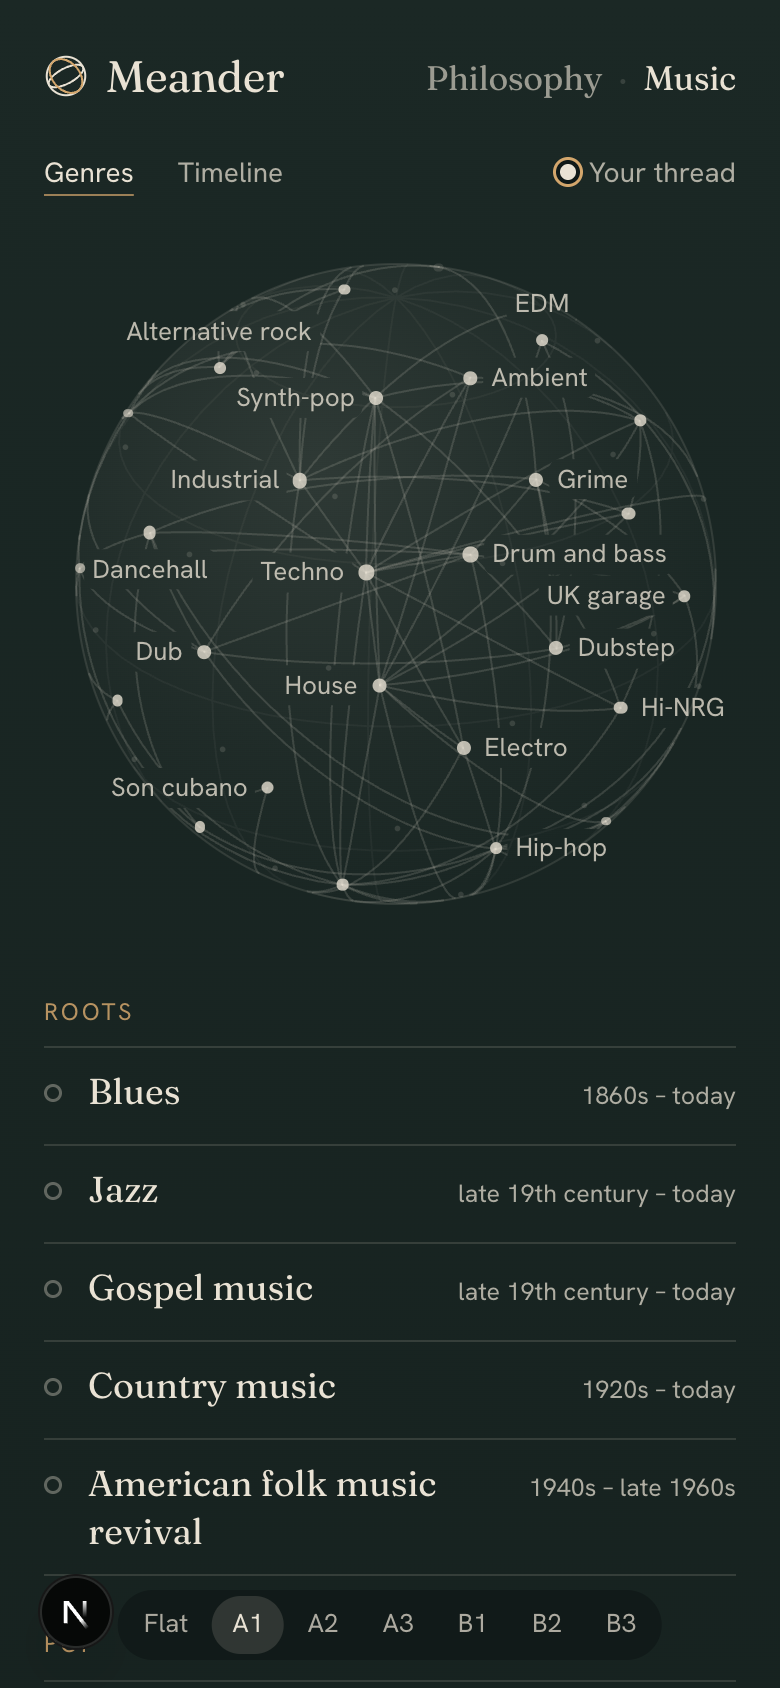
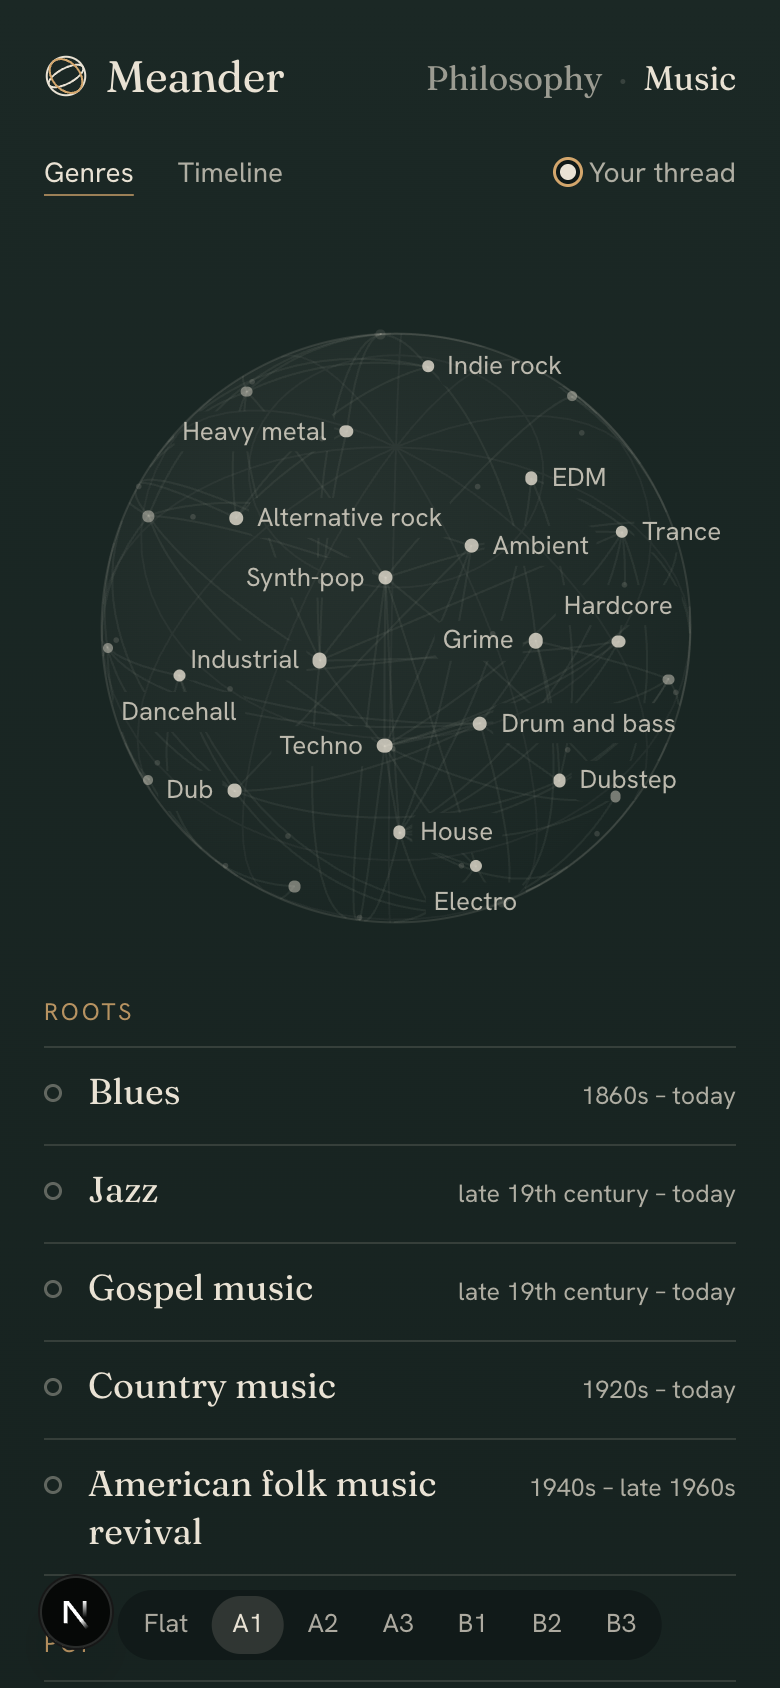
11 Meander: A1 and A3 after critic round 1 (family lighting, quieter list and threads, front-only family names, densest first view)

Changed region(s): [[0.0923, 0.154, 0.9231, 0.5545], [0.1231, 0.2464, 0.1538, 0.2773]]

diff --git a/apps/11-meander/src/components/spin-globe.tsx b/apps/11-meander/src/components/spin-globe.tsx
@@ -15,16 +15,21 @@ import { GAMMA, RIM, project, vec, type Vec3 } from "@/lib/globe";
 import { arcPath, centroid, clampPitch, facingRot, frontOf, graticule, lerpRot, ortho, placeSpinLabels, type Box, type Rot } from "@/lib/spin";
 
 export type SpinVariant = "a1" | "a2" | "a3" | "b1" | "b2" | "b3";
-/** Families for music; Western and Eastern for philosophy. */
+/** Families for music; the timeline's eras for philosophy (critic r1: Western/Eastern was two rows, not an overview). */
 export function groupsOf(field: Field) {
-  return field.families.length
-    ? field.families.map((f) => ({ id: f.id, name: f.name, schools: field.schools.filter((s) => s.family === f.id) }))
-    : [
-      { id: "west", name: "Western", schools: field.schools.filter((s) => s.tradition !== "eastern") },
-      { id: "east", name: "Eastern", schools: field.schools.filter((s) => s.tradition === "eastern") },
-    ];
+  if (field.families.length) return field.families.map((f) => ({ id: f.id, name: f.name, schools: field.schools.filter((s) => s.family === f.id) }));
+  const rows = timelineRows(field.schools, undefined, field.spans, field.eras);
+  return field.eras.map((e, i) => ({ id: `era-${i}`, name: e.name, schools: rows.filter((r) => r.era === i).map((r) => r.item) }));
+}
+/** The densest side of the sphere: the point with the most others within about 63°, then the middle of that crowd. */
+function densest(vs: Vec3[]): Vec3 {
+  const d = (a: Vec3, b: Vec3) => a[0] * b[0] + a[1] * b[1] + a[2] * b[2];
+  let best = vs[0], n = -1;
+  for (const v of vs) { const k = vs.filter((w) => d(v, w) > 0.45).length; if (k > n) { n = k; best = v; } }
+  return centroid(vs.filter((w) => d(best, w) > 0.45));
 }
 import { stateLabel, type SchoolState } from "@/lib/progress";
+import { timelineRows } from "@/lib/timeline";
 import type { GlobeMode } from "@/lib/globe-proto";
 
 type Props = {
@@ -58,11 +63,13 @@ export function SpinGlobe({ field, mode, focus, states, onOpen, C: C0, R: R0, W,
   const fam = mode[0] as "a" | "b";
   // b2: a close-up globe rising from the bottom (back to normal size while a card is open, so it clears the card)
   const big = mode === "b2" && !focus;
-  const R = big ? R0 * 1.42 : R0;
-  const C: [number, number] = big ? [C0[0], C0[1] + R0 * 0.38] : C0;
+  // A (critic r1): a little smaller and lower on first open, so the top clears the menu
+  const calm = fam === "a" && !focus;
+  const R = big ? R0 * 1.42 : calm ? R0 * 0.92 : R0;
+  const C: [number, number] = big ? [C0[0], C0[1] + R0 * 0.38] : calm ? [C0[0], C0[1] + 22] : C0;
   const V = useMemo(() => Object.fromEntries(field.schools.map((s) => [s.id, vec(field.positions[s.id])])) as Record<string, Vec3>, [field]);
   const start = useMemo(() => {
-    const r = facingRot(focus ? V[focus] : centroid(Object.values(V)));
+    const r = facingRot(focus ? V[focus] : densest(Object.values(V)));
     return { yaw: r.yaw, pitch: clampPitch(r.pitch - 0.12) };
   }, [field]); // eslint-disable-line react-hooks/exhaustive-deps -- where it starts, per field
   const [rot, setRot] = useState<Rot>(start);
@@ -143,13 +150,16 @@ export function SpinGlobe({ field, mode, focus, states, onOpen, C: C0, R: R0, W,
   const near = useMemo(() => new Map(focus ? field.neighbours(focus).map((n) => [n.school.id, n]) : []), [field, focus]);
   const [hovered, setHovered] = useState<string | null>(null);
   const hoverId = focus ? null : hovered;
+  // a3: a clicked family name lights its members (and turns the globe to them)
+  const [famLit, setFamLit] = useState<{ id: string; ids: Set<string> } | null>(null);
+  const familyLit = focus ? null : litIds ?? famLit?.ids ?? null;
   const lit = useMemo(() => {
-    if (litIds) return litIds;
+    if (familyLit) return familyLit;
     if (!hoverId) return null;
     const ids = new Set([hoverId]);
     for (const l of field.links) if (l.from === hoverId) ids.add(l.to); else if (l.to === hoverId) ids.add(l.from);
     return ids;
-  }, [hoverId, field.links, litIds]);
+  }, [hoverId, field.links, familyLit]);
 
   const P = Object.fromEntries(field.schools.map((s) => [s.id, ortho(V[s.id], rot, C, R)]));
   const front = field.schools.filter((s) => s.id !== focus && P[s.id].z > 0);
@@ -185,6 +195,8 @@ export function SpinGlobe({ field, mode, focus, states, onOpen, C: C0, R: R0, W,
     .sort((a, b) => (near.has(a.id) ? 0 : 1) - (near.has(b.id) ? 0 : 1) || P[b.id].z - P[a.id].z)
     .map((s) => ({ id: s.id, x: P[s.id].x, y: P[s.id].y, r: rOf(s.id), ...sizeOf(s.id), must: near.has(s.id) }));
   const title: Box[] = focus ? [{ x: C[0] - 200, y: C[1] - 30, w: 400, h: 120 }] : [];
+  // the title's text only (the dot sits at C, the name and date line under it), so threads run up to it unbroken
+  const titleKo = focus ? { x: C[0] - 175, y: C[1] - 26, w: 350, h: 82 } : null;
   const placed = placeSpinLabels(wanted, [...fixed, ...title], C, W, H);
 
   // A, focus: neighbours round the back, pinned to the rim in their direction, so the card's neighbours are all on screen.
@@ -200,7 +212,7 @@ export function SpinGlobe({ field, mode, focus, states, onOpen, C: C0, R: R0, W,
 
   const paths = field.links.map((l) => {
     const isF = l.from === focus || l.to === focus;
-    const cls = ["th", isF && "focus", isF && l.type === "against" && "against", isF && l.type === "built-then-against" && "mixed", !!focus && !isF && "rest", lit && lit.has(l.from) && lit.has(l.to) && (hoverId === l.from || hoverId === l.to || !!litIds) && "lit"]
+    const cls = ["th", isF && "focus", isF && l.type === "against" && "against", isF && l.type === "built-then-against" && "mixed", !!focus && !isF && "rest", lit && lit.has(l.from) && lit.has(l.to) && (hoverId === l.from || hoverId === l.to || !!familyLit) && "lit"]
       .filter(Boolean).join(" ");
     return { key: `${l.from}-${l.to}`, cls, d: arcPath(V[l.from], V[l.to], rot, C, R) };
   }).filter((p) => p.d && (!focus || !p.cls.includes("rest") || fam === "a"));
@@ -213,16 +225,37 @@ export function SpinGlobe({ field, mode, focus, states, onOpen, C: C0, R: R0, W,
     const f = frontOf(rot);
     return { MC, r, ring: r * Math.min(RIM, Math.pow(0.5, GAMMA)), dots: field.schools.map((s) => ({ id: s.id, ...project(f, V[s.id], MC, r) })) };
   })() : null;
-  // a3: family names over their regions, faint when round the back.
-  const regions = mode === "a3" && !focus ? groupsOf(field).filter((g) => g.schools.length).map((g) => {
-    const p = ortho(centroid(g.schools.map((s) => V[s.id])), rot, C, R * 0.86);
-    return { id: g.id, name: g.name, ...p };
-  }) : [];
+  // a3 (critic r1): a family's name sits at the middle of its members on the front, only when two or more are there,
+  // and gives way to any genre label or dot it would touch; never for the back half.
+  const regions: { id: string; name: string; x: number; y: number; ids: Set<string>; vs: Vec3[] }[] = [];
+  if (mode === "a3" && !focus) {
+    const taken = Object.values(placed).map((p) => p.rect);
+    const groups = groupsOf(field)
+      .filter((g) => !famLit || g.id === famLit.id)
+      .map((g) => ({ g, on: g.schools.filter((s) => s.id !== focus && P[s.id].z > 0.2) }))
+      .filter((x) => x.on.length >= 2)
+      .sort((a, b) => b.on.length - a.on.length)
+      .slice(0, compact ? 3 : 8);
+    for (const { g, on } of groups) {
+      const cx = on.reduce((t, s) => t + P[s.id].x, 0) / on.length, cy = on.reduce((t, s) => t + P[s.id].y, 0) / on.length;
+      const w = g.name.length * (compact ? 7.5 : 9.6) + 8, h = compact ? 12 : 16;
+      const ids = new Set(g.schools.map((s) => s.id));
+      // the middle of its members first, then a little above, below or to the side; the first place that touches nothing
+      const spot = [[0, 0], [0, -24], [0, 24], [-48, 0], [48, 0], [0, -46], [0, 46]].map(([dx, dy]) => ({ x: cx + dx, y: cy + dy })).find(({ x, y }) => {
+        const box = { x: x - w / 2, y: y - h / 2, w, h };
+        const hits = (b: Box) => box.x < b.x + b.w + 8 && b.x < box.x + box.w + 8 && box.y < b.y + b.h + 5 && b.y < box.y + box.h + 5;
+        return Math.hypot(x - C[0], y - C[1]) < R - w / 2 && !taken.some(hits) && !front.some((s) => hits({ x: P[s.id].x - 6, y: P[s.id].y - 6, w: 12, h: 12 }));
+      });
+      if (!spot) continue;
+      taken.push({ x: spot.x - w / 2, y: spot.y - h / 2, w, h });
+      regions.push({ id: g.id, name: g.name, x: spot.x, y: spot.y, ids, vs: g.schools.map((s) => V[s.id]) });
+    }
+  }
 
   return (
     <div
       ref={wrap}
-      className={["globe", "spin", compact && "compact", lit && "hovering"].filter(Boolean).join(" ")}
+      className={["globe", "spin", mode, compact && "compact", lit && "hovering", familyLit && "fam-lit"].filter(Boolean).join(" ")}
       onPointerDown={onPointerDown}
       onClickCapture={onClickCapture}
       onKeyDown={onKeyDown}
@@ -232,14 +265,14 @@ export function SpinGlobe({ field, mode, focus, states, onOpen, C: C0, R: R0, W,
       <svg className="threads" aria-hidden="true" width={W} height={H}>
         <defs>
           <radialGradient id={`${idPrefix}-lit`} cx="38%" cy="32%" r="75%">
-            <stop offset="0" stopColor="#e9e2d4" stopOpacity=".10" />
+            <stop offset="0" stopColor="#e9e2d4" stopOpacity=".06" />
             <stop offset=".6" stopColor="#e9e2d4" stopOpacity=".03" />
             <stop offset="1" stopColor="#e9e2d4" stopOpacity="0" />
           </radialGradient>
           <mask id={`${idPrefix}-ko`} maskUnits="userSpaceOnUse" x="0" y="0" width={W} height={H}>
             <rect width={W} height={H} fill="#fff" />
             {Object.values(placed).map((p, i) => <rect key={i} x={p.rect.x - 4} y={p.rect.y - 2} width={p.rect.w + 8} height={p.rect.h + 4} rx="5" fill="#000" />)}
-            {focus && <ellipse cx={C[0]} cy={C[1] + 40} rx={230} ry={78} fill="#000" />}
+            {titleKo && <rect x={titleKo.x} y={titleKo.y} width={titleKo.w} height={titleKo.h} rx="14" fill="#000" />}
           </mask>
         </defs>
         <circle cx={C[0]} cy={C[1]} r={R} fill={`url(#${idPrefix}-lit)`} />
@@ -247,9 +280,6 @@ export function SpinGlobe({ field, mode, focus, states, onOpen, C: C0, R: R0, W,
         <circle className="rim" cx={C[0]} cy={C[1]} r={R} />
         {(mode === "a1" || mode === "a3") && back.map((s) => (
           <circle key={s.id} className={["bk", lit?.has(s.id) && "lit", near.has(s.id) && "near"].filter(Boolean).join(" ")} cx={P[s.id].x} cy={P[s.id].y} r={compact ? 1.4 : 1.8} />
-        ))}
-        {regions.map((g) => (
-          <text key={g.id} className={g.z > 0 ? "region" : "region back"} x={g.x} y={g.y} textAnchor="middle">{g.name}</text>
         ))}
         <g mask={`url(#${idPrefix}-ko)`}>
           {paths.map((p) => <path key={p.key} className={p.cls} d={p.d} />)}
@@ -292,6 +322,17 @@ export function SpinGlobe({ field, mode, focus, states, onOpen, C: C0, R: R0, W,
             </span>
           </button>
         ))}
+        {regions.map((g) => (
+          <button key={g.id} type="button" className={famLit?.id === g.id ? "region on" : "region"} style={{ left: g.x, top: g.y }}
+            onClick={() => {
+              if (famLit?.id === g.id) { setFamLit(null); return; }
+              setFamLit({ id: g.id, ids: g.ids });
+              const r = facingRot(centroid(g.vs));
+              turn({ yaw: r.yaw, pitch: clampPitch(r.pitch - 0.1) });
+            }}
+            aria-pressed={famLit?.id === g.id}
+          >{g.name}</button>
+        ))}
         {children}
       </main>
       <div className="measure" ref={measure} aria-hidden="true">
@@ -311,24 +352,29 @@ export function GlobeIndex({ field, onLight, onTurn, onOpen, states }: {
 }) {
   const groups = groupsOf(field);
   const [open, setOpen] = useState<string | null>(null);
+  const setOf = (id: string | null) => { const g = groups.find((x) => x.id === id); return g ? new Set(g.schools.map((s) => s.id)) : null; };
   return (
-    <nav className="gindex" aria-label="The whole map" onPointerDown={(e) => e.stopPropagation()} onMouseLeave={() => onLight(null)}>
-      <p className="gk">The whole map · {field.schools.length}</p>
+    <nav className="gindex" aria-label="The whole map" onPointerDown={(e) => e.stopPropagation()} onMouseLeave={() => onLight(setOf(open))}>
+      <p className="gk">The whole map</p>
       <ul>
         {groups.filter((g) => g.schools.length).map((g) => (
           <li key={g.id} className={open === g.id ? "open" : undefined}>
             <button type="button" className="gh" aria-expanded={open === g.id}
               onMouseEnter={() => onLight(new Set(g.schools.map((s) => s.id)))}
-              onClick={() => { setOpen(open === g.id ? null : g.id); onTurn(centroid(g.schools.map((s) => vec(field.positions[s.id])))); }}
+              onClick={() => {
+                const next = open === g.id ? null : g.id;
+                setOpen(next); onLight(setOf(next));
+                if (next) onTurn(centroid(g.schools.map((s) => vec(field.positions[s.id]))));
+              }}
             >
-              <span>{g.name}</span><span className="ct">{g.schools.length}</span>
+              <span>{g.name}</span>
             </button>
             {open === g.id && (
               <ul className="gl">
                 {g.schools.map((s) => (
                   <li key={s.id}>
                     <button type="button" className={states.get(s.id) && states.get(s.id) !== "new" ? "v" : undefined}
-                      onMouseEnter={() => onLight(new Set([s.id]))} onClick={() => onOpen(s.id)}>
+                      onClick={() => onOpen(s.id)}>
                       {field.nameOf(s)}
                     </button>
                   </li>

diff --git a/apps/11-meander/src/app/globals.css b/apps/11-meander/src/app/globals.css
@@ -616,18 +616,30 @@ svg.ov .bead { fill: var(--bone); transition: opacity 200ms ease; }
 .spin-phone { height: 360px; margin: 4px -4px 12px; overflow: hidden; }
 .spin-phone.big { height: 440px; }
 .spin-hint { text-align: center; color: var(--quiet); font-size: 14px; margin-top: 8px; }
-.gindex { position: absolute; left: 44px; top: 118px; width: 250px; max-height: 740px; overflow-y: auto; z-index: 2; }
-.gindex .gk { font-size: 12px; letter-spacing: 0.08em; text-transform: uppercase; color: var(--quiet); margin: 0 0 10px 10px; }
+.gindex { position: absolute; left: 44px; bottom: 96px; width: 230px; z-index: 2; }
+.gindex .gk { font-size: 11px; letter-spacing: 0.1em; text-transform: uppercase; color: rgba(233, 226, 212, 0.5); margin: 0 0 6px 10px; }
 .gindex ul { list-style: none; margin: 0; padding: 0; }
-.gindex .gh { display: flex; justify-content: space-between; width: 100%; padding: 6px 10px; border-radius: 8px; font-size: 15px; color: rgba(233, 226, 212, 0.82); text-align: left; }
-.gindex .gh .ct { color: var(--quiet); font-size: 13px; }
-.gindex li.open > .gh { color: var(--bone); }
-.gindex .gl { margin: 2px 0 8px 10px; border-left: 1px solid rgba(233, 226, 212, 0.12); }
-.gindex .gl button { display: block; width: 100%; text-align: left; padding: 3px 12px; font-size: 14px; color: var(--quiet); border-radius: 6px; }
+.gindex .gh { display: block; width: 100%; padding: 4px 10px; border-radius: 8px; font-size: 13.5px; color: rgba(233, 226, 212, 0.6); text-align: left; }
+.gindex li.open > .gh { color: var(--brass); }
+.gindex .gl { margin: 2px 0 6px 10px; border-left: 1px solid rgba(233, 226, 212, 0.12); max-height: 210px; overflow-y: auto; }
+.gindex .gl button { display: block; width: 100%; text-align: left; padding: 2px 12px; font-size: 13px; color: var(--quiet); border-radius: 6px; }
 .gindex .gl button.v { color: var(--brass); }
 @media (hover: hover) {
   .gindex .gh:hover, .gindex .gl button:hover { background: rgba(233, 226, 212, 0.07); color: var(--bone); }
 }
+/* critic r1: quieter threads at rest; a lit family keeps its names, everything else steps back to back-dot faintness */
+.globe.spin svg.threads path.th:not(.focus):not(.lit) { stroke-opacity: 0.06; }
+.globe.spin.hovering svg.threads path.th:not(.focus):not(.lit) { stroke-opacity: 0.03; }
+.globe.spin .n.nolabel .dot { opacity: 0.45; }
+.globe.spin.fam-lit .n:not(.lit) .lb { visibility: hidden; }
+.globe.spin.fam-lit .n:not(.lit) .dot { opacity: 0.22; }
+.globe.spin.fam-lit .n.lit b { opacity: 1; color: var(--bone); }
+.globe.spin.fam-lit .n.lit.nolabel .lb { visibility: visible; left: 10px !important; top: -10px !important; }
+.globe.spin.fam-lit .n.lit .dot { opacity: 1; }
+.globe.spin.a3 .n b { color: rgba(233, 226, 212, 0.68); }
+.globe.spin .region { position: absolute; transform: translate(-50%, -50%); padding: 2px 4px; border-radius: 4px; font: 500 12.5px/1 var(--sans); letter-spacing: 0.16em; text-transform: uppercase; color: var(--brass); white-space: nowrap; cursor: pointer; }
+.globe.spin .region.on { text-decoration: underline; text-underline-offset: 4px; }
+.globe.spin.compact .region { font-size: 10px; letter-spacing: 0.12em; }
 .gswitch { position: absolute; left: 44px; bottom: 28px; display: flex; gap: 2px; padding: 3px; border-radius: 999px; background: rgba(233, 226, 212, 0.06); z-index: 5; font-size: 13px; }
 .phone .gswitch { position: fixed; left: 50%; bottom: 14px; transform: translateX(-50%); background: rgba(16, 25, 24, 0.92); }
 .gswitch button { padding: 5px 12px; border-radius: 999px; color: var(--quiet); }
@@ -638,7 +650,4 @@ svg.ov .bead { fill: var(--bone); transition: opacity 200ms ease; }
 .globe.spin .mring { fill: rgba(233, 226, 212, 0.05); stroke: var(--brass); stroke-opacity: 0.6; stroke-width: 1; }
 .globe.spin .md { fill: #e9e2d4; fill-opacity: 0.3; }
 .globe.spin .md.in { fill-opacity: 0.9; }
-.globe.spin .region { font: 500 11px/1 var(--sans); letter-spacing: 0.14em; text-transform: uppercase; fill: var(--brass); fill-opacity: 0.75; pointer-events: none; }
-.globe.spin .region.back { fill-opacity: 0.2; }
-.globe.spin.compact .region { font-size: 9px; }
 .gswitch button { padding: 5px 10px; }

diff --git a/docs/products/11-meander/design/phase5/critic.md b/docs/products/11-meander/design/phase5/critic.md
@@ -1,0 +1,21 @@
+# Phase 5 globe: design critic
+
+## Round 1 (28 Nov): A1 5/10, A3 5/10
+
+A1 does the first-open job better ("see where everything sits" needs the back half nameable and reachable); A3 is
+closer to the feel but taught wrong geography (family names at whole-family centroids, back names illegible).
+Shared: thread hairball, threads cut around the title, philosophy opened on its 4 Eastern schools.
+
+Fixed after round 1:
+- A1: a family stays lit while open (members bright, the rest at back-dot faintness, non-members' names hidden);
+  the list is quieter (no count, smaller and dimmer, bottom-left, member list scrolls); philosophy's list is its
+  five eras instead of Western/Eastern.
+- A3: a family name sits at the middle of its *front* members, only with two or more there, tries 7 nearby spots and
+  gives way to any label or dot; back-side names removed; names are larger, full brass, and clickable (turns to the
+  family and lights it); genre names a step dimmer, so families read first.
+- Both: threads at rest at a third of their old strength; first open faces the densest side; the A globes are 8%
+  smaller and 22px lower; the glow one step flatter; unlabelled front dots dimmer; threads now run up to the title
+  text instead of stopping at an oval round it.
+
+Not changed (the card and title belong to the signed-off design): the card's clipped bottom row, the title under the
+focus dot, the dotted "provoked it" line, the "Globe"/"Genres" tab names.

diff --git a/docs/products/11-meander/journal.md b/docs/products/11-meander/journal.md
@@ -260,3 +260,4 @@ For the shared pages (knowledge bank, problems, learnings, process changes), wri
 - **Zoomable review page for the owner (28 Nov):** the contact sheets were too small to read, so every shot is on a private page with full-size, 100% zoom and arrow keys between directions on the same view: https://claude.ai/artifact/6XbToR7nBPEp6Wzyc7sNqa
 - **Owner pick (L64):** "I like A1 and A3." Family B and A2 dropped. Next: a preview to spin them live, and one critic round on both.
 - **Preview for spinning live (pre-approved preview deploy):** https://meander-esyy0zoi2-mimirswell.vercel.app (`?globe=a1` or `?globe=a3`; may ask for the owner's Vercel sign-in).
+- **Critic round 1 (A1 5/10, A3 5/10)** and fixes: see `design/phase5/critic.md`.
